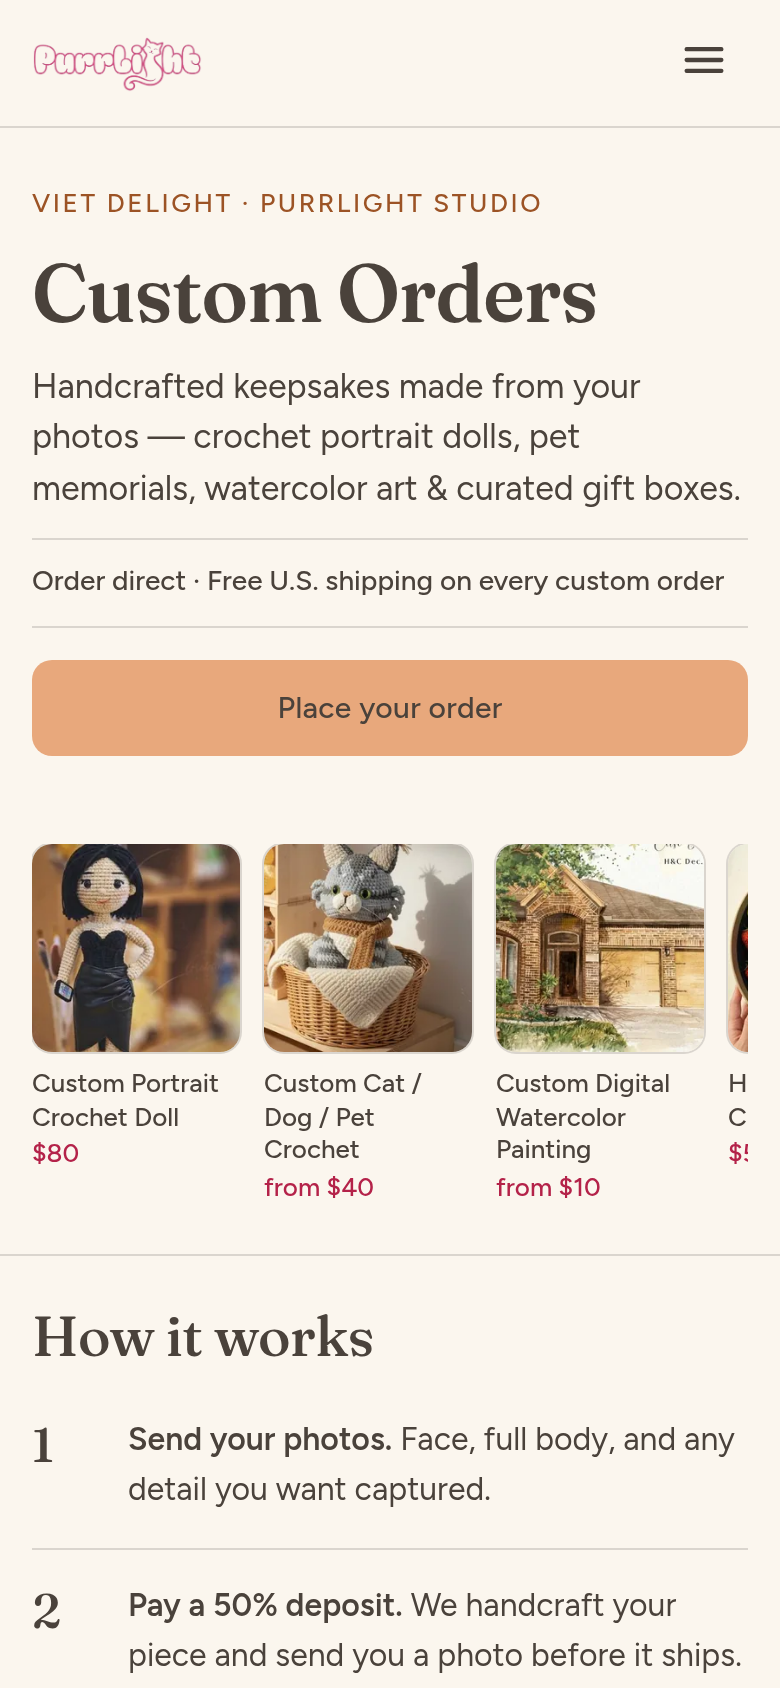
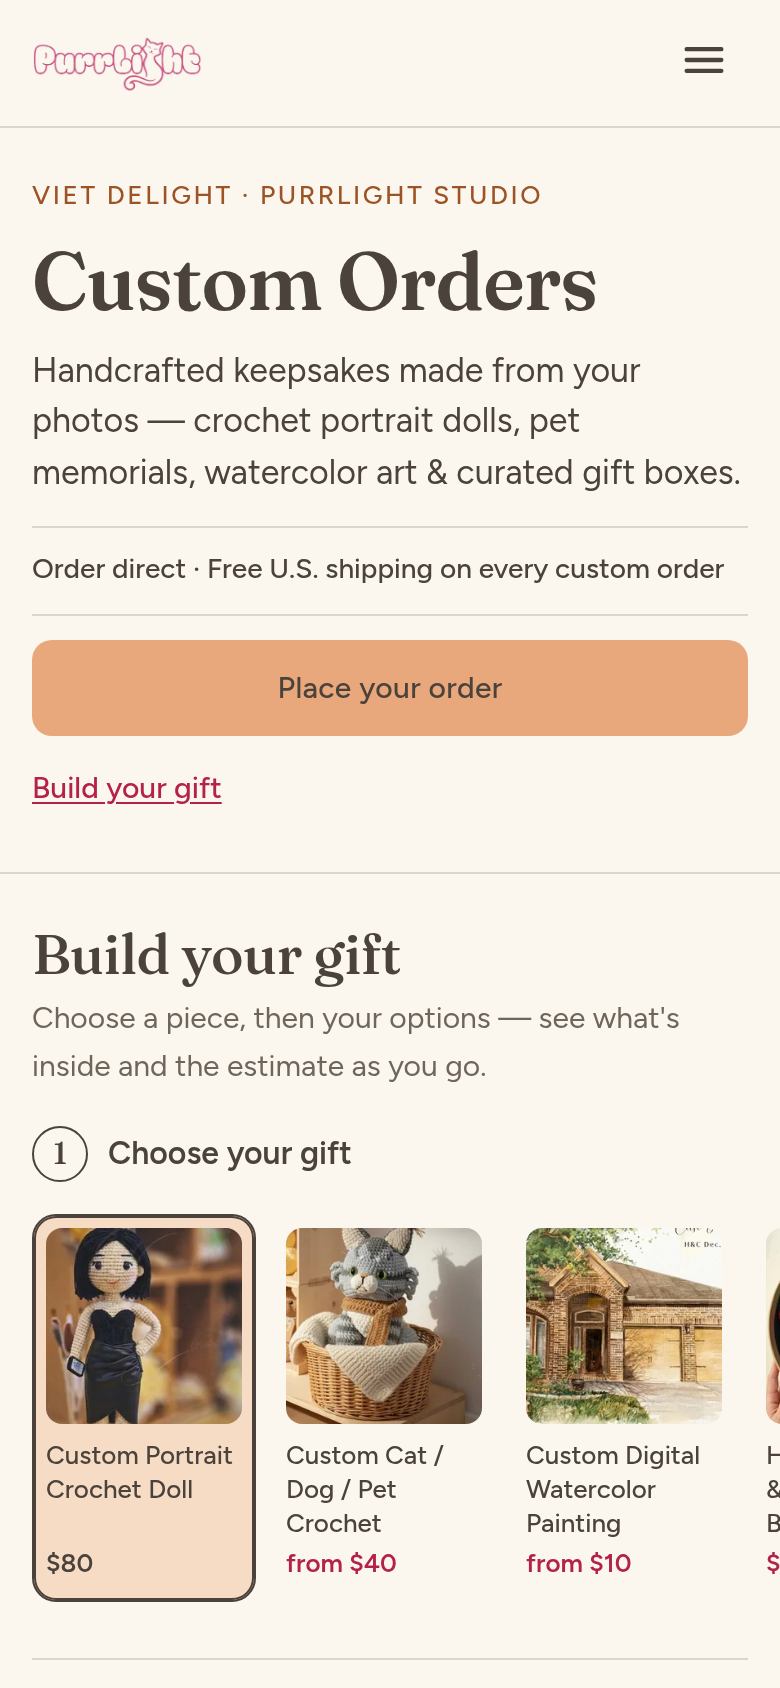
Custom Orders studio — sửa theo review trợ năng/điện thoại; ảnh chụp mới
- Thanh đặt hàng không che ô đang focus (scroll-padding + JS); chỉ hiện dưới 900px
- Focus ring thấy được trên footer; hàng ảnh chọn món không cắt viền focus
- Bước chỉ-bản-in khi Digital: không hiện như đang chọn, có dòng lý do (aria-describedby)
- Desktop: chỉ hộp What's inside dính → vừa màn 720–768px
- Thông báo trình đọc màn hình gọn, có "Removed: …"; chữ ô chọn không ngắt giữa từ
- docs/screens: 5 ảnh điện thoại + 2 ảnh desktop của bản studio

Claude-Session: https://claude.ai/code/session_01PLYG5TiggYTJU6oqvA7Biv

diff --git a/website/custom-orders/custom-orders.css b/website/custom-orders/custom-orders.css
@@ -63,6 +63,10 @@ strong { font-weight: 600; }
 .skip-link { position: absolute; left: -9999px; top: 0; z-index: 100; background: var(--ink); color: var(--cream); padding: 10px 18px; border-radius: 0 0 var(--radius) 0; }
 .skip-link:focus { left: 0; }
 :focus-visible { outline: 3px solid var(--ink); outline-offset: 3px; }
+.co-footer :focus-visible { outline-color: var(--cream); }   /* the Ink ring vanishes on the Ink footer */
+/* keyboard focus never lands under the sticky header or the phone order bar (WCAG 2.4.11) */
+html { scroll-padding-top: 80px; }
+html.has-bar { scroll-padding-bottom: 96px; }
 
 /* ---------- type scale (brief §2: Fraunces display, Figtree body/UI) ---------- */
 h1, h2, h3 { font-family: var(--font-head); font-weight: 500; color: var(--ink); margin: 0; letter-spacing: -0.01em; }
@@ -150,7 +154,7 @@ p { margin: 0; }
 }
 
 /* step 1 — the seven pieces (tabs; a swipe row on phones) */
-.picker { list-style: none; margin: 0 calc(-1 * var(--gutter)); padding: 2px var(--gutter) 10px; display: flex; gap: 8px; overflow-x: auto; scroll-snap-type: x proximity; scroll-padding-inline: var(--gutter); scrollbar-width: none; -webkit-overflow-scrolling: touch; }
+.picker { list-style: none; margin: 0 calc(-1 * var(--gutter)); padding: 6px var(--gutter) 10px; display: flex; gap: 8px; overflow-x: auto; scroll-snap-type: x proximity; scroll-padding-inline: var(--gutter); scrollbar-width: none; -webkit-overflow-scrolling: touch; }
 .picker::-webkit-scrollbar { display: none; }
 .picker li { flex: 0 0 112px; scroll-snap-align: start; display: flex; }
 .picker a { display: flex; flex-direction: column; width: 100%; padding: 6px 6px 10px; border: 1px solid transparent; border-radius: 12px; color: var(--ink); text-decoration: none; font-size: 13px; line-height: 1.3; transition: background-color var(--ease), border-color var(--ease); }
@@ -162,7 +166,7 @@ p { margin: 0; }
 .pk-price { display: block; color: var(--berry); font-weight: 600; margin-top: auto; padding-top: 3px; }
 .picker a.is-on .pk-price { color: var(--ink); }
 @media (min-width: 900px) {
-  .picker { margin: 0; padding: 2px 0 4px; display: grid; grid-template-columns: repeat(7, minmax(0, 1fr)); gap: 10px; overflow: visible; }
+  .picker { margin: 0; padding: 6px 0 4px; display: grid; grid-template-columns: repeat(7, minmax(0, 1fr)); gap: 10px; overflow: visible; }
   .picker li { flex: none; }
   .picker a { font-size: 13.5px; }
 }
@@ -180,15 +184,15 @@ p { margin: 0; }
 .gift-photo { grid-area: photo; margin: 0; }
 .gift-box { grid-area: box; }
 @media (min-width: 900px) {
-  .gift { margin-top: 24px; padding-top: 32px; grid-template-columns: minmax(0, 1fr) minmax(0, 420px); grid-template-rows: auto 1fr; grid-template-areas: "head preview" "steps preview"; column-gap: 56px; row-gap: 26px; }
+  .gift { margin-top: 24px; padding-top: 32px; grid-template-columns: minmax(0, 1fr) minmax(0, clamp(320px, 36vw, 420px)); grid-template-rows: auto 1fr; grid-template-areas: "head preview" "steps preview"; column-gap: 56px; row-gap: 26px; }
   .gift-title { font-size: 30px; }
-  .gift-preview { display: grid; gap: 16px; grid-area: preview; align-self: start; }
+  .gift-preview { display: flex; flex-direction: column; gap: 16px; grid-area: preview; align-self: stretch; }
   .gift-preview > .gift-photo, .gift-preview > .gift-box { grid-area: auto; }
   .gift-head { align-self: start; }
   .gift-steps { align-self: start; }
 }
-/* the preview stays beside the options while they scroll — only where the viewport is tall enough to hold it */
-@media (min-width: 900px) and (min-height: 700px) { .gift-preview { position: sticky; top: 84px; } }
+/* the What's inside box stays beside the options while they scroll (the photo scrolls away) — where the viewport can hold it */
+@media (min-width: 900px) and (min-height: 720px) { .gift-box { position: sticky; top: 84px; } }
 
 /* photo: real photo at its natural ratio, never cropped, capped so the box stays in view */
 .shot { display: grid; justify-items: center; gap: 6px; }
@@ -203,18 +207,22 @@ p { margin: 0; }
 
 /* option tiles (native radio / checkbox inside a label) */
 .step { border: 0; margin: 0; padding: 0; min-width: 0; }
-.step.is-off { opacity: 0.55; }
+.step.is-off .tiles { opacity: 0.55; }   /* only the tiles dim: the prices in the hint stay readable */
+.step-off { font-size: 14px; font-weight: 500; color: var(--ink); margin: -4px 0 10px; }
+.step-off[hidden] { display: none; }
 .step-hint { font-size: 14px; color: var(--ink-soft); margin: -4px 0 10px; }
 .step-note { font-size: 14px; color: var(--ink-soft); margin-top: 10px; }
 .gift-steps > .step-note { margin-top: -8px; }
 .tiles { display: grid; grid-template-columns: repeat(2, minmax(0, 1fr)); gap: 8px; }
 .tiles.cols-3 { grid-template-columns: repeat(3, minmax(0, 1fr)); }
 .tiles.cols-1 { grid-template-columns: minmax(0, 1fr); }
-@media (min-width: 600px) { .tiles.cols-4 { grid-template-columns: repeat(4, minmax(0, 1fr)); } .tiles.cols-1 { grid-template-columns: repeat(2, minmax(0, 1fr)); } }
+@media (min-width: 600px) { .tiles.cols-1 { grid-template-columns: repeat(2, minmax(0, 1fr)); } }
+/* four print sizes in a row only where each tile keeps ~120px (not in the narrow 900–1079px two-column studio) */
+@media (min-width: 600px) and (max-width: 899px), (min-width: 1080px) { .tiles.cols-4 { grid-template-columns: repeat(4, minmax(0, 1fr)); } }
 .tile { position: relative; display: flex; flex-direction: column; gap: 2px; min-height: 56px; padding: 11px 30px 11px 12px; border: 1px solid var(--line-ui); border-radius: var(--radius); background: transparent; font-size: 15px; font-weight: 500; line-height: 1.3; cursor: pointer; transition: border-color var(--ease), background-color var(--ease); }
 .tile input { position: absolute; opacity: 0; width: 1px; height: 1px; margin: 0; }
 .tile:hover { border-color: var(--ink-soft); }
-.tile-name { overflow-wrap: anywhere; }
+.tile-name { overflow-wrap: break-word; }
 .tile-note { order: 2; font-size: 13px; font-weight: 400; color: var(--caption); }
 .tile-note strong { font-weight: 600; color: var(--ink); }
 .tile-price { order: 3; font-family: var(--font-head); font-weight: 500; font-size: 17px; color: var(--berry); margin-top: 2px; }
@@ -355,4 +363,5 @@ p { margin: 0; }
 .order-bar .btn .short { display: none; }
 @media (max-width: 399px) { .order-bar .btn .long { display: none; } .order-bar .btn .short { display: inline; } }
 body.has-bar { padding-bottom: 88px; }
-@media (min-width: 980px) { .order-bar { display: none !important; } body.has-bar { padding-bottom: 0; } }
+/* from 900px the What's inside box (with its own order button) stays in view: no bar */
+@media (min-width: 900px) { .order-bar { display: none !important; } body.has-bar { padding-bottom: 0; } html.has-bar { scroll-padding-bottom: 0; } }

diff --git a/website/custom-orders/custom-orders.js b/website/custom-orders/custom-orders.js
@@ -91,6 +91,7 @@
       if (ok) onDone(); else onFail();
     } catch (e) { onFail(); }
   }
+  function isDisabled(inp) { try { return inp.matches(":disabled"); } catch (e) { return inp.disabled; } }   /* counts a disabled <fieldset> too */
   /* data-when="format!=digital&paper=do" — every condition must hold; "name=a,b" (one of), "name!=a" (none of), "name~a" (checkbox list holds a) */
   function holds(expr, v) {
     var conds = expr.split("&");
@@ -223,11 +224,13 @@
         }
         else { var inp = node.querySelector("input"); if (inp) { inp.disabled = isDigital; if (isDigital) inp.checked = false; } }
         node.classList.toggle("is-off", isDigital);
+        var why = node.querySelector(".step-off");
+        if (why) { why.hidden = !isDigital; if (isDigital) node.setAttribute("aria-describedby", why.id); else node.removeAttribute("aria-describedby"); }
       }
       v = readValues(form);   /* re-read: disabled extras drop out */
       /* browsers without :has(): mirror the checked state as a class */
       var tin = art.querySelectorAll(".tile input");
-      for (var q = 0; q < tin.length; q++) tin[q].parentNode.classList.toggle("is-checked", tin[q].checked && !tin[q].disabled);
+      for (var q = 0; q < tin.length; q++) tin[q].parentNode.classList.toggle("is-checked", tin[q].checked && !isDisabled(tin[q]));
       /* prices that follow another choice (yarn by size, frame by print size, pages by format) */
       var dyn = art.querySelectorAll("[data-price-by]");
       for (var d = 0; d < dyn.length; d++) {
@@ -253,7 +256,7 @@
       /* the box: main line first, the included rows (static HTML), then each add-on */
       var old = box.querySelectorAll("li.line");
       for (var o = 0; o < old.length; o++) box.removeChild(old[o]);
-      var added = [];
+      var added = [], oldLabels = prevLabels || [];
       est.lines.forEach(function (l, idx) {
         var li = el("li", { "class": "line " + (idx === 0 ? "line-main" : "line-add") });
         var name = el("span", { "class": "line-name" });
@@ -275,7 +278,8 @@
       copied.textContent = "";
       store(storeKey, { v: v });
       if (fromUser) {
-        live.textContent = (added.length ? added.join(", ") + ". " : "") + "Estimate " + money(est.total) + ".";
+        var removed = oldLabels.filter(function (lab, ix) { return ix > 0 && prevLabels.indexOf(lab) === -1; });   /* a swapped main line is not a removal */
+        live.textContent = (added.length ? added.join(", ") + ". " : "") + (removed.length ? "Removed: " + removed.join(", ") + ". " : "") + "Estimate " + money(est.total) + ".";
         var addOn = added.filter(function (a) { return a !== prevLabels[0]; });
         if (addOn.length) barAdded(addOn[addOn.length - 1]);
         pick(g);
@@ -361,7 +365,7 @@
     if (opts.user) {
       store(CURRENT_KEY, id);
       try { history.replaceState(null, "", "#" + id); } catch (e) { /* file:// or old browser */ }
-      live.textContent = g.def.product + " — estimate " + money(g.est.total) + ".";
+      live.textContent = "Estimate " + money(g.est.total) + ".";   /* the tab name is already read out */
       pick(g);
     }
   }
@@ -410,17 +414,24 @@
     });
   }
 
+  /* keyboard focus never ends up under the phone order bar (scroll-padding covers most browsers; this covers the rest) */
+  document.addEventListener("focusin", function (e) {
+    if (bar.hidden || !e.target || !e.target.getBoundingClientRect || bar.contains(e.target)) return;
+    var r = e.target.getBoundingClientRect(), top = bar.getBoundingClientRect().top;
+    if (r.bottom > top - 8 && r.top < window.innerHeight) window.scrollBy(0, r.bottom - top + 16);
+  });
+
   /* ---------- sticky bar visibility ---------- */
   var heroCta = document.querySelector(".hero-cta");
   var closing = document.querySelector(".closing");
   if ("IntersectionObserver" in window && heroCta && closing) {
     var pastHero = false, atClosing = false;
-    var sync = function () { bar.hidden = !(pastHero && !atClosing); document.body.classList.toggle("has-bar", !bar.hidden); };
+    var sync = function () { bar.hidden = !(pastHero && !atClosing); document.body.classList.toggle("has-bar", !bar.hidden); document.documentElement.classList.toggle("has-bar", !bar.hidden); };
     new IntersectionObserver(function (es) { es.forEach(function (e) { pastHero = !e.isIntersecting && e.boundingClientRect.top < 0; }); sync(); }, { threshold: 0 }).observe(heroCta);
     new IntersectionObserver(function (es) { es.forEach(function (e) { atClosing = e.isIntersecting; }); sync(); }, { threshold: 0.4 }).observe(closing);
   } else if (heroCta) {
     /* no IntersectionObserver: a plain scroll rule */
-    var onScroll = function () { var show = window.scrollY > 420; bar.hidden = !show; document.body.classList.toggle("has-bar", show); };
+    var onScroll = function () { var show = window.scrollY > 420; bar.hidden = !show; document.body.classList.toggle("has-bar", show); document.documentElement.classList.toggle("has-bar", show); };
     window.addEventListener("scroll", onScroll); onScroll();
   }
 })();

diff --git a/website/custom-orders/index.html b/website/custom-orders/index.html
@@ -212,6 +212,7 @@
             </fieldset>
             <fieldset class="step" data-print-only>
               <legend><span class="step-n" aria-hidden="true">3</span> <span class="step-label">Paper</span> <span class="legend-note">prints</span></legend>
+              <p class="step-off" id="wc-paper-off" hidden>For prints — choose a print size in step 2.</p>
               <p class="step-hint">Printed on fine-art paper or handmade Vietnamese Dó papyrus <strong>+$5</strong></p>
               <div class="tiles">
                 <label class="tile"><input type="radio" name="paper" value="fine" checked><span class="tile-name">Fine-art paper</span></label>
@@ -220,6 +221,7 @@
             </fieldset>
             <fieldset class="step" data-print-only>
               <legend><span class="step-n" aria-hidden="true">4</span> <span class="step-label">Frame</span> <span class="legend-note">prints</span></legend>
+              <p class="step-off" id="wc-frame-off" hidden>For prints — choose a print size in step 2.</p>
               <p class="step-hint">Frame: 4×6 <strong>$8</strong> · 5×7 <strong>$16</strong> · 8×10 <strong>$24</strong></p>
               <div class="tiles">
                 <label class="tile"><input type="radio" name="frame" value="no" checked><span class="tile-name">No frame</span></label>

diff --git a/docs/PURRLIGHT-WEBSITE-TONG-HOP.md b/docs/PURRLIGHT-WEBSITE-TONG-HOP.md
@@ -586,7 +586,24 @@ hiểu/bổ sung gì thì báo.
   bar, nhớ lựa chọn, link #món, tắt JS) · `audit-custom.js` (copy nguyên văn,
   từ cấm, ảnh, nút, tràn 360/390/1280) — pass.
 
-<!-- review-8h -->
+### Hai reviewer độc lập (agent) → đã sửa
+- Brand/copy/giá: hộp **Confirmation (coming soon)** đang chọn được và đi vào
+  email đặt hàng với $55 → nay chỉ là ô thông tin, không đặt được; bỏ dòng
+  "Printed on fine-art paper" trong hộp (cách đọc giá giấy còn chờ chị); lựa
+  chọn được nhớ / link #món đi kèm link đặt hàng ngay khi mở lại; về "Digital
+  file" thì giấy, khung, hộp quà cùng về mặc định; hộp tân gia ghi "Add or
+  swap: …"; bỏ token màu hồng khỏi CSS; mũi tên "All pet prices" không xoay.
+- Trợ năng/điện thoại: thanh đặt hàng không còn che ô đang focus (scroll-
+  padding + chặn bằng JS); viền focus thấy được trên footer Ink; bước "chỉ bản
+  in" khi chọn Digital không còn trông như đang chọn + có dòng lý do ("For
+  prints — choose a print size in step 2."); viền focus hàng ảnh không bị cắt;
+  trên desktop chỉ hộp What's inside dính (ảnh cuộn đi) nên vừa màn 720–768px;
+  thanh dính chỉ dưới 900px; thông báo cho trình đọc màn hình gọn hơn
+  ("Removed: …" khi bỏ chọn); chữ trong ô không ngắt giữa từ.
+- Giữ nguyên (chờ chị): How it works nằm dưới studio (brief §5 muốn giữ thứ
+  tự v1 — em đổi để khách vào thẳng phần chọn quà như Oreo); hộp quà tranh chỉ
+  cho bản in (cách đọc cũ, đã ghi trong prices.js); ảnh christening có tràng
+  hạt + thiệp trong khi bộ ghi "gown, bonnet, mittens and booties".
 
 ## 9. Link & tài nguyên
 
